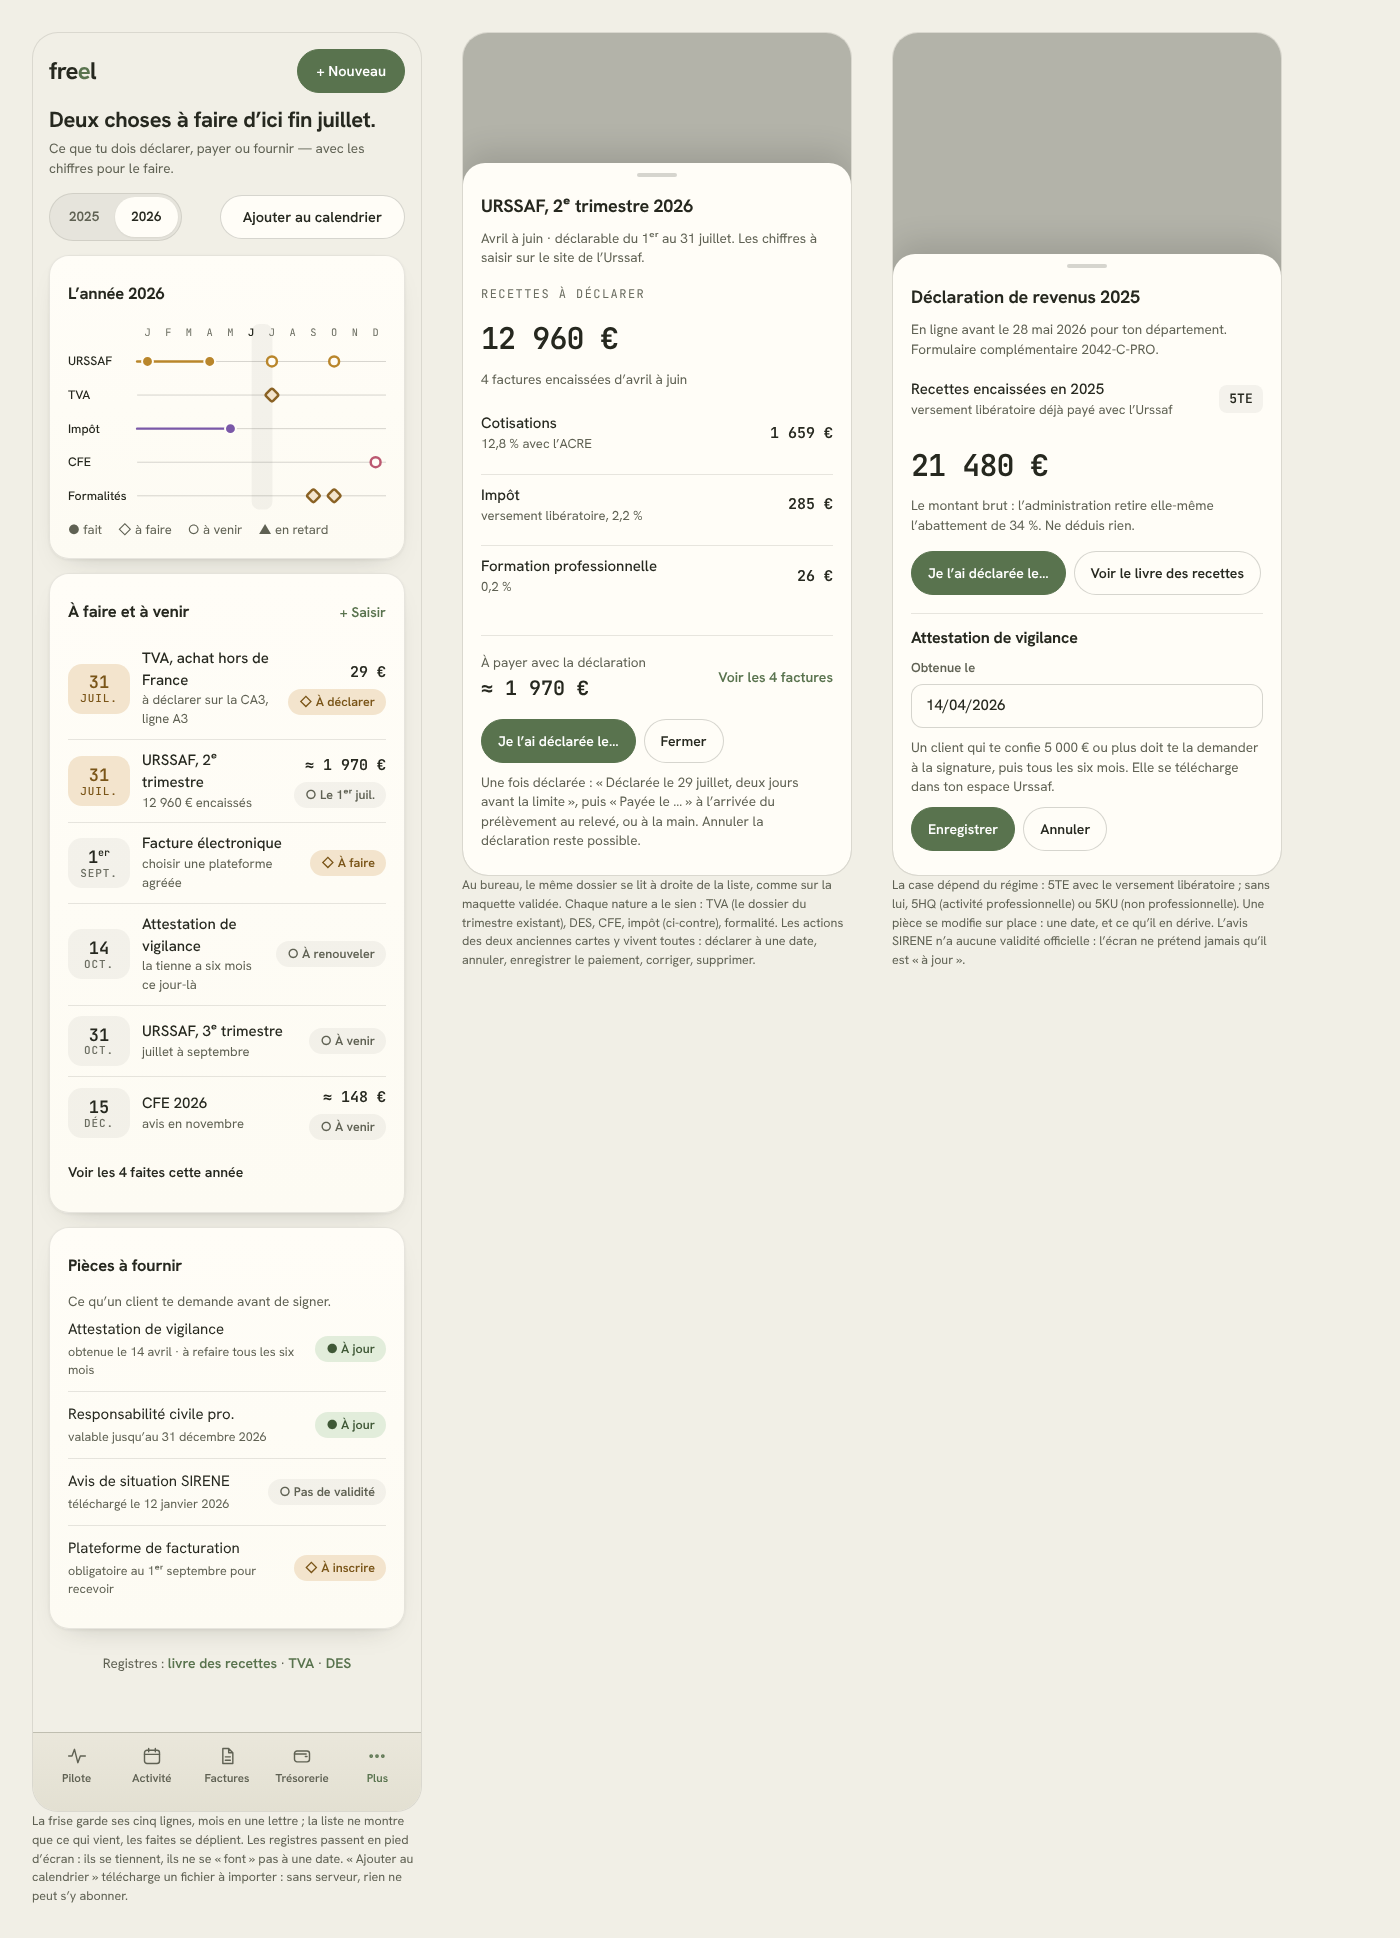
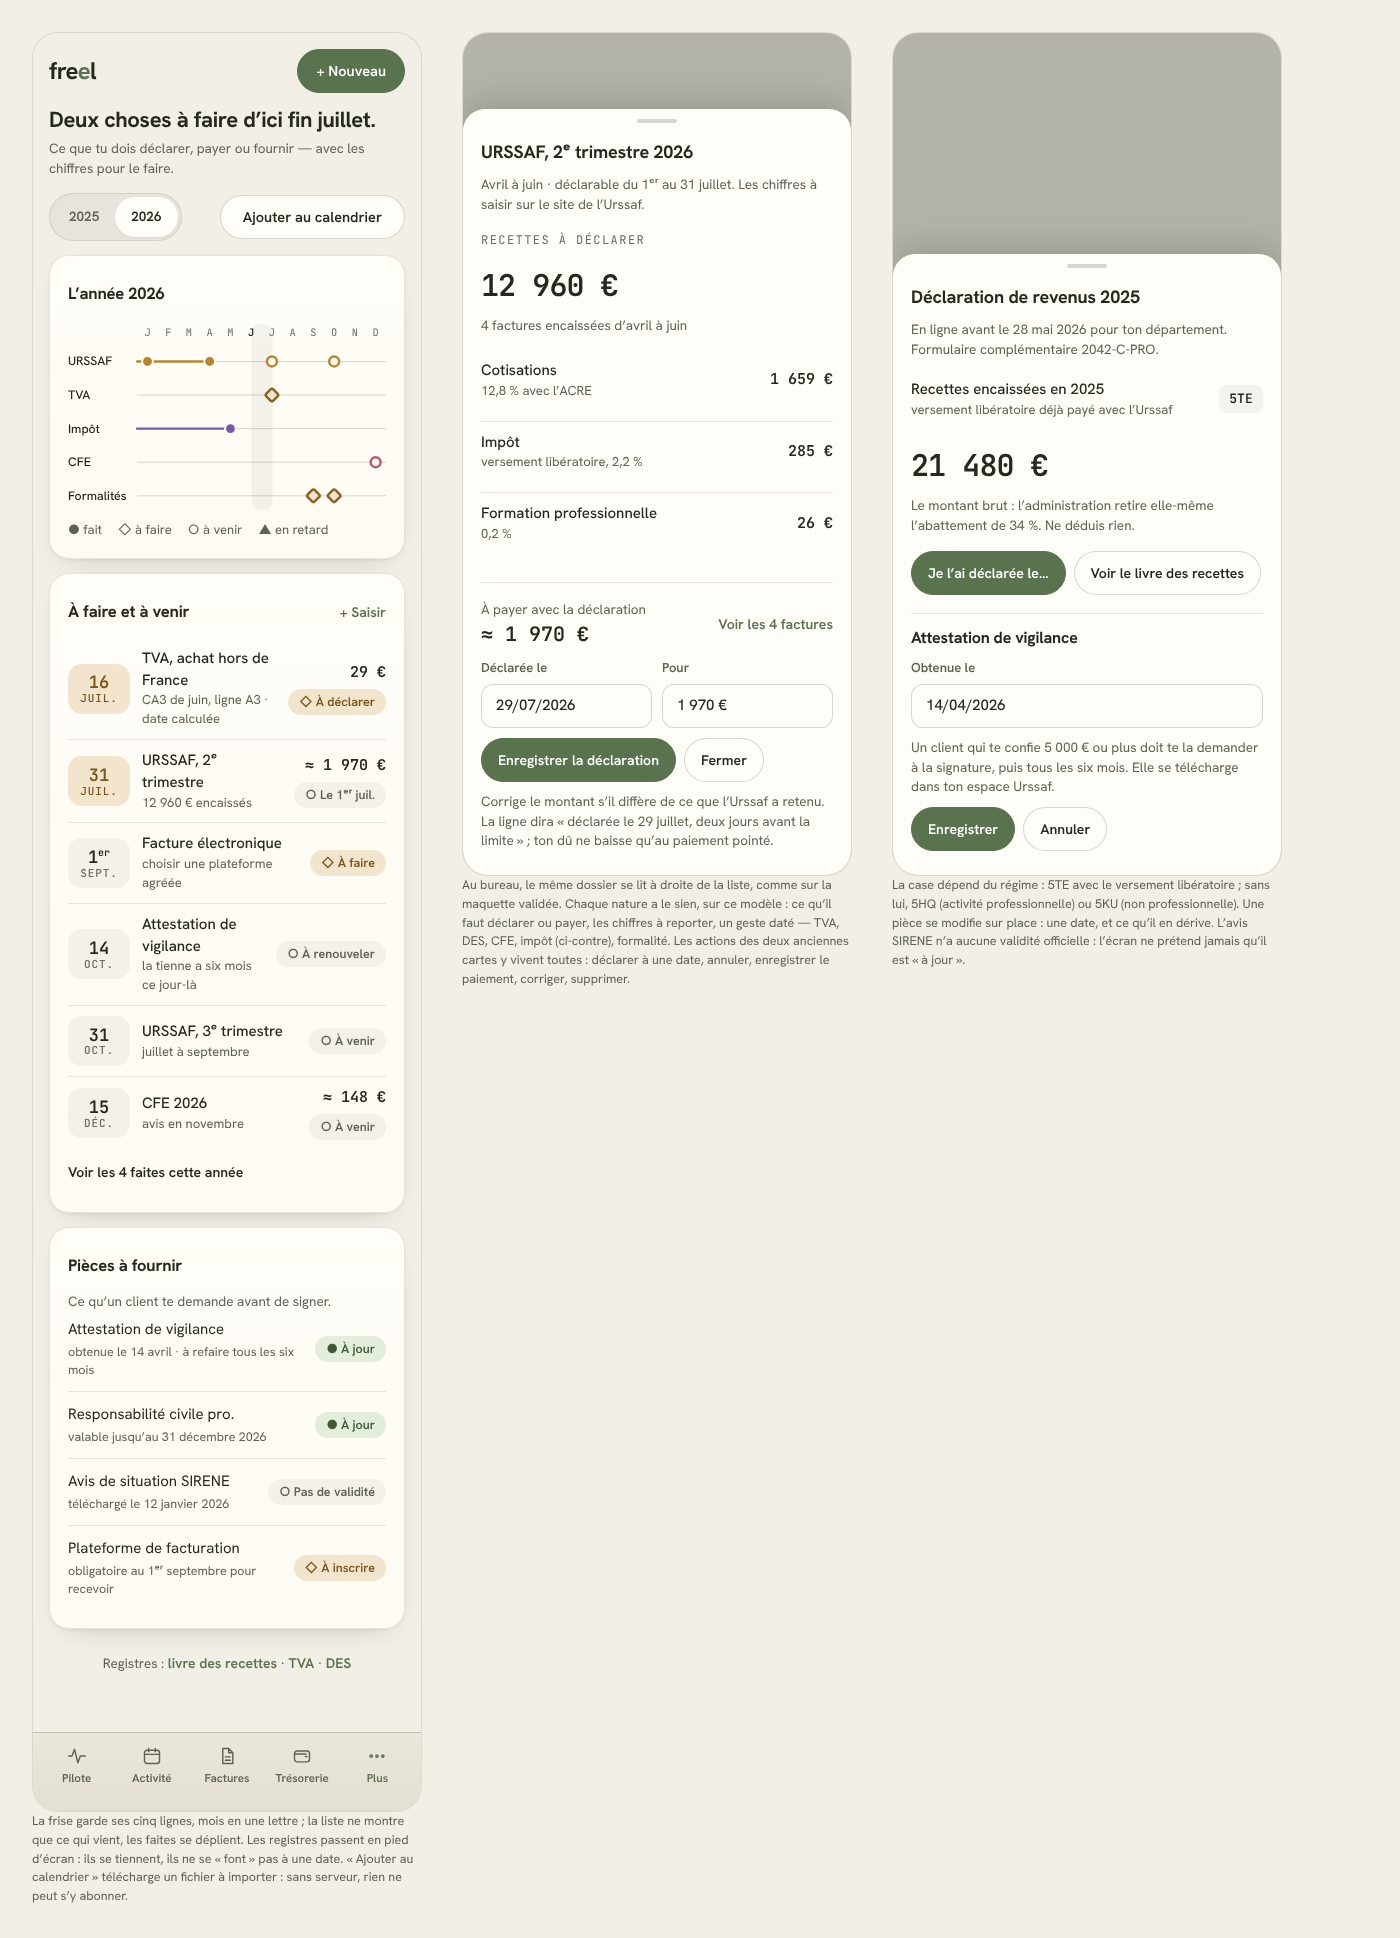
Lot 53 — maquettes Obligations : la date de la TVA autoliquidée, le geste URSSAF
La TVA d'un service acheté hors de France se déclare sur la CA3 du mois
suivant l'opération, au jour de l'article A161-29 du CIBS (16 juillet pour
un nom de A à H hors Paris et petite couronne), pas le 31 : la maquette
validée portait une date fausse, qui aurait servi de référence.

Au téléphone, « Déclarée le … pour … € » devient un seul geste : déclarer
sans saisir l'appel faisait baisser le dû avant tout paiement. La promesse
d'un « payée » tiré du relevé est retirée : aucun rapprochement ne relie un
prélèvement à une échéance.

Claude-Session: https://claude.ai/code/session_018T7ZzqWAc4SLYNS5zSBV1g

diff --git a/docs/design/direction/obligations.html b/docs/design/direction/obligations.html
@@ -40,7 +40,7 @@
 <div class="e-row">
 <section class="e-card" style="flex: 8 1 0" aria-labelledby="t-faire">
 <div class="e-h"><h3 id="t-faire">À faire et à venir</h3><span class="e-hint">6 échéances d’ici décembre</span></div>
-<div class="e-li first"><span class="e-date now">31<small>juil.</small></span><div class="n">TVA sur un achat hors de France<small>Logiciel acheté le 3 juin · à déclarer sur la CA3, ligne A3</small></div><div style="flex: 0 0 auto; display: flex; flex-direction: column; align-items: flex-end; gap: 5px"><span class="v">29&nbsp;€</span><span class="e-chip warn">◇ À déclarer</span></div></div><div class="e-li"><span class="e-date now">31<small>juil.</small></span><div class="n">URSSAF, 2ᵉ trimestre 2026<small>Avril à juin · 12&nbsp;960&nbsp;€ encaissés à ce jour</small></div><div style="flex: 0 0 auto; display: flex; flex-direction: column; align-items: flex-end; gap: 5px"><span class="v">≈&nbsp;1&nbsp;970&nbsp;€</span><span class="e-chip">○ Déclarable le 1ᵉʳ juillet</span></div></div><div class="e-li"><span class="e-date"><span>1<sup style="font-size: 10px">er</sup></span><small>sept.</small></span><div class="n">Facture électronique : pouvoir en recevoir<small>Choisir une plateforme agréée et l’inscrire ici</small></div><div style="flex: 0 0 auto; display: flex; flex-direction: column; align-items: flex-end; gap: 5px"><span class="v">—</span><span class="e-chip warn">◇ À faire</span></div></div><div class="e-li"><span class="e-date">14<small>oct.</small></span><div class="n">Attestation de vigilance<small>Demandée par Studio Lumen · la tienne expire ce jour-là</small></div><div style="flex: 0 0 auto; display: flex; flex-direction: column; align-items: flex-end; gap: 5px"><span class="v">—</span><span class="e-chip">○ À renouveler</span></div></div><div class="e-li"><span class="e-date">31<small>oct.</small></span><div class="n">URSSAF, 3ᵉ trimestre 2026<small>Juillet à septembre</small></div><div style="flex: 0 0 auto; display: flex; flex-direction: column; align-items: flex-end; gap: 5px"><span class="v">—</span><span class="e-chip">○ À venir</span></div></div><div class="e-li"><span class="e-date">15<small>déc.</small></span><div class="n">CFE 2026<small>Avis en novembre · première année : base réduite de moitié</small></div><div style="flex: 0 0 auto; display: flex; flex-direction: column; align-items: flex-end; gap: 5px"><span class="v">≈&nbsp;148&nbsp;€</span><span class="e-chip">○ À venir</span></div></div>
+<div class="e-li first"><span class="e-date now">16<small>juil.</small></span><div class="n">TVA sur un achat hors de France<small>Logiciel acheté le 3 juin · CA3 de juin, ligne A3 · date calculée</small></div><div style="flex: 0 0 auto; display: flex; flex-direction: column; align-items: flex-end; gap: 5px"><span class="v">29&nbsp;€</span><span class="e-chip warn">◇ À déclarer</span></div></div><div class="e-li"><span class="e-date now">31<small>juil.</small></span><div class="n">URSSAF, 2ᵉ trimestre 2026<small>Avril à juin · 12&nbsp;960&nbsp;€ encaissés à ce jour</small></div><div style="flex: 0 0 auto; display: flex; flex-direction: column; align-items: flex-end; gap: 5px"><span class="v">≈&nbsp;1&nbsp;970&nbsp;€</span><span class="e-chip">○ Déclarable le 1ᵉʳ juillet</span></div></div><div class="e-li"><span class="e-date"><span>1<sup style="font-size: 10px">er</sup></span><small>sept.</small></span><div class="n">Facture électronique : pouvoir en recevoir<small>Choisir une plateforme agréée et l’inscrire ici</small></div><div style="flex: 0 0 auto; display: flex; flex-direction: column; align-items: flex-end; gap: 5px"><span class="v">—</span><span class="e-chip warn">◇ À faire</span></div></div><div class="e-li"><span class="e-date">14<small>oct.</small></span><div class="n">Attestation de vigilance<small>Demandée par Studio Lumen · la tienne expire ce jour-là</small></div><div style="flex: 0 0 auto; display: flex; flex-direction: column; align-items: flex-end; gap: 5px"><span class="v">—</span><span class="e-chip">○ À renouveler</span></div></div><div class="e-li"><span class="e-date">31<small>oct.</small></span><div class="n">URSSAF, 3ᵉ trimestre 2026<small>Juillet à septembre</small></div><div style="flex: 0 0 auto; display: flex; flex-direction: column; align-items: flex-end; gap: 5px"><span class="v">—</span><span class="e-chip">○ À venir</span></div></div><div class="e-li"><span class="e-date">15<small>déc.</small></span><div class="n">CFE 2026<small>Avis en novembre · première année : base réduite de moitié</small></div><div style="flex: 0 0 auto; display: flex; flex-direction: column; align-items: flex-end; gap: 5px"><span class="v">≈&nbsp;148&nbsp;€</span><span class="e-chip">○ À venir</span></div></div>
 </section>
 
 <section class="e-card" style="flex: 5 1 0; display: flex; flex-direction: column" aria-labelledby="t-dossier">

diff --git a/docs/design/direction/obligations-telephone.html b/docs/design/direction/obligations-telephone.html
@@ -72,7 +72,7 @@ body { margin: 0 }
 
 <section class="e-card" aria-labelledby="t-faire">
 <div class="e-h"><h3 id="t-faire">À faire et à venir</h3><a class="e-more" href="#saisir">+ Saisir</a></div>
-<div class="e-li first"><span class="e-date now">31<small>juil.</small></span><div class="n">TVA, achat hors de France<small>à déclarer sur la CA3, ligne A3</small></div><div style="display: flex; flex-direction: column; align-items: flex-end; gap: 5px"><span class="v">29&nbsp;€</span><span class="e-chip warn">◇ À déclarer</span></div></div>
+<div class="e-li first"><span class="e-date now">16<small>juil.</small></span><div class="n">TVA, achat hors de France<small>CA3 de juin, ligne A3 · date calculée</small></div><div style="display: flex; flex-direction: column; align-items: flex-end; gap: 5px"><span class="v">29&nbsp;€</span><span class="e-chip warn">◇ À déclarer</span></div></div>
 <div class="e-li"><span class="e-date now">31<small>juil.</small></span><div class="n">URSSAF, 2ᵉ trimestre<small>12&nbsp;960&nbsp;€ encaissés</small></div><div style="display: flex; flex-direction: column; align-items: flex-end; gap: 5px"><span class="v">≈&nbsp;1&nbsp;970&nbsp;€</span><span class="e-chip">○ Le 1ᵉʳ juil.</span></div></div>
 <div class="e-li"><span class="e-date"><span>1<sup style="font-size: 10px">er</sup></span><small>sept.</small></span><div class="n">Facture électronique<small>choisir une plateforme agréée</small></div><span class="e-chip warn">◇ À faire</span></div>
 <div class="e-li"><span class="e-date">14<small>oct.</small></span><div class="n">Attestation de vigilance<small>la tienne a six mois ce jour-là</small></div><span class="e-chip">○ À renouveler</span></div>
@@ -120,11 +120,12 @@ body { margin: 0 }
 <div class="e-li"><div class="n">Impôt<small>versement libératoire, 2,2 %</small></div><span class="v">285&nbsp;€</span></div>
 <div class="e-li"><div class="n">Formation professionnelle<small>0,2 %</small></div><span class="v">26&nbsp;€</span></div>
 <div class="e-foot"><div><span class="e-hint">À payer avec la déclaration</span><div class="mono" style="font-size: 20px; font-weight: 600">≈&nbsp;1&nbsp;970&nbsp;€</div></div><a class="e-more" href="#factures">Voir les 4 factures</a></div>
-<div class="ob-actions" style="margin-top: 6px"><button type="button" class="ob-bouton plein">Je l’ai déclarée le…</button><button type="button" class="ob-bouton">Fermer</button></div>
-<p class="e-hint" style="margin: 0">Une fois déclarée : « Déclarée le 29 juillet, deux jours avant la limite », puis « Payée le … » à l’arrivée du prélèvement au relevé, ou à la main. Annuler la déclaration reste possible.</p>
+<div style="display: flex; gap: 10px"><label class="ob-champ" style="flex: 1">Déclarée le<span class="valeur">29/07/2026</span></label><label class="ob-champ" style="flex: 1">Pour<span class="valeur">1&nbsp;970&nbsp;€</span></label></div>
+<div class="ob-actions"><button type="button" class="ob-bouton plein">Enregistrer la déclaration</button><button type="button" class="ob-bouton">Fermer</button></div>
+<p class="e-hint" style="margin: 0">Corrige le montant s’il diffère de ce que l’Urssaf a retenu. La ligne dira « déclarée le 29 juillet, deux jours avant la limite » ; ton dû ne baisse qu’au paiement pointé.</p>
 </div>
 </div>
-<p class="ob-legende">Au bureau, le même dossier se lit à droite de la liste, comme sur la maquette validée. Chaque nature a le sien : TVA (le dossier du trimestre existant), DES, CFE, impôt (ci-contre), formalité. Les actions des deux anciennes cartes y vivent toutes : déclarer à une date, annuler, enregistrer le paiement, corriger, supprimer.</p>
+<p class="ob-legende">Au bureau, le même dossier se lit à droite de la liste, comme sur la maquette validée. Chaque nature a le sien, sur ce modèle : ce qu’il faut déclarer ou payer, les chiffres à reporter, un geste daté — TVA, DES, CFE, impôt (ci-contre), formalité. Les actions des deux anciennes cartes y vivent toutes : déclarer à une date, annuler, enregistrer le paiement, corriger, supprimer.</p>
 </div>
 
 <!-- ── 3. Le dossier « déclaration de revenus », et une pièce ──────────── -->
